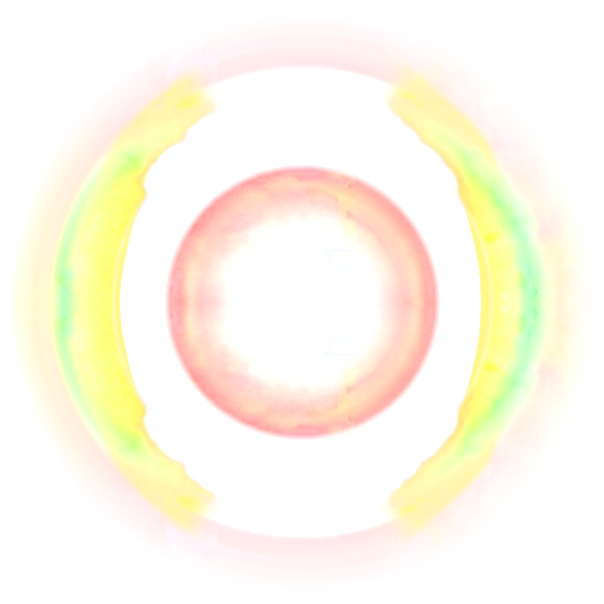
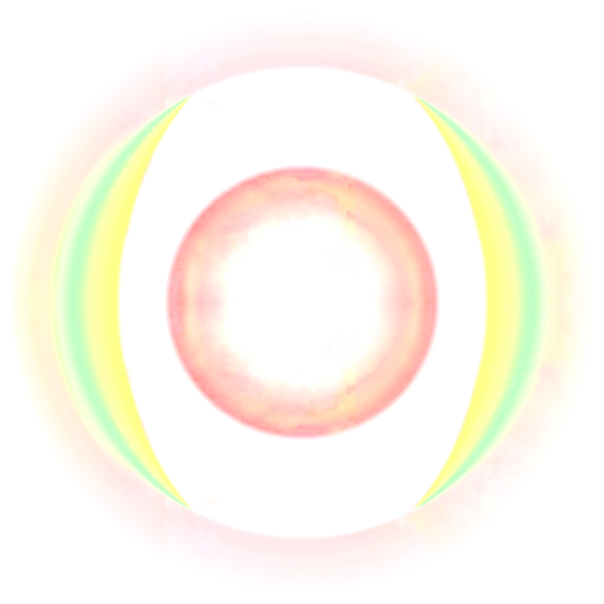
Efekt 10 küre (referans): parantezler sivri uçlu geoit şekline tamamlandı, renk tek tip (sağ parantez profili)
Claude-Session: https://claude.ai/code/session_01E9c1WiJsMc9gXSJZ9D4z6g

Changed region(s): [[0.0894, 0.1192, 0.3576, 0.894], [0.6258, 0.1192, 0.8642, 0.894], [0.8642, 0.5066, 0.894, 0.5364]]

diff --git a/arayuz/araclar/efekt10/kure_ref.py b/arayuz/araclar/efekt10/kure_ref.py
@@ -63,27 +63,33 @@ tp=(T[...,1]<0.85*T[...,0])&(R>=178)&(R<235)
 tp=ndimage.binary_opening(tp,np.ones((3,3)))
 wt=np.clip(ndimage.gaussian_filter(tp.astype(np.float32),2.0)*1.5,0,1)
 T=T*(1-wt)[...,None]
-# parantezleri sari renkle tamamla: orijinal katmandaki sari-yesil parantezin ic kenari (aci basina) yumusatilir,
-# o kenardan disari kalan kayiplar sari ile doldurulur (sekil duzgun yay olur)
-NA=720; ab=((np.arctan2(yy-CY,xx-CX)+np.pi)/(2*np.pi)*NA).astype(int)%NA
-mx0=T0.max(2); Y=(T0[...,1]>=0.85*T0[...,0])&(T0[...,2]<0.8*T0[...,1])&(mx0>0.3)&(R>165)&(R<265)
-rin=np.full(NA,np.nan); ys_=np.full((NA,3),np.nan)
-Rf=R[Y]; af=ab[Y]
-for a_ in range(NA):
-    q=af==a_
-    if q.sum()>3:
-        rr=np.sort(Rf[q]); rin[a_]=rr[min(2,len(rr)-1)]
-ok=~np.isnan(rin)
-var=ndimage.uniform_filter1d(ok.astype(float),25,mode="wrap")>0.6          # parantezin oldugu acilar
-rr_=np.where(ok,rin,np.interp(np.arange(NA),np.where(ok)[0],rin[ok],period=NA))
-rr_=ndimage.median_filter(rr_,31,mode="wrap"); rr_=ndimage.gaussian_filter1d(rr_,6,mode="wrap")
-rmap=rr_[ab]; vmap=ndimage.gaussian_filter1d(var.astype(float),4,mode="wrap")[ab]
-sari=np.array([0xFE,0xF6,0x86],np.float32)/255                                # olculen sari (#FFF083 / #FEFF81 / #FFFF8E ortasi)
-bolge=(R>=rmap)&(R<rmap+50)
-dol=np.clip((R-rmap+1.5)/3,0,1)*np.clip((rmap+50-R)/8,0,1)*vmap*bolge
-eksik=np.clip(1-T.max(2)/0.85,0,1)
-yeni=np.maximum(T,sari[None,None,:]*(dol*eksik)[...,None]+T*(1-(dol*eksik)[...,None]))
-T=yeni
+# parantezler: geoit gibi tamamlanmak isteyen, uclari sivrilen sekil — ic kenar daire (r=IC), dis kenar yanlardan siskin/ustten basik elips;
+# kalinlik ust-altta sifira iner -> sivri uclar. Renk: fotografin dogru (sag) parantezinden kalinlik oranina (u) gore olculen profil, tek tip.
+IA,IB,EA,EB=182.0,260.0,252.0,232.0           # fotograftaki eski parantezin olculen kenarlari: orta 182-252, uc ~62 derece r~236
+th_=np.arctan2(yy-CY,xx-CX)
+DR=1/np.sqrt((np.cos(th_)/EA)**2+(np.sin(th_)/EB)**2)
+IR=1/np.sqrt((np.cos(th_)/IA)**2+(np.sin(th_)/IB)**2); IC=IR
+kal=np.maximum(DR-IR,0); u=(R-IR)/np.maximum(kal,1e-3)
+ic_=(u>=0)&(u<=1)&(kal>0.5)
+# renk profili: sag parantez (|aci|<18), orijinal katman T0
+sg=ic_&(np.abs(np.degrees(th_))<18)
+NB=40; ub=np.clip((u*NB).astype(int),0,NB-1)
+prof=np.zeros((NB,3),np.float32)
+for c in range(3):
+    sm=np.bincount(ub[sg],weights=T0[...,c][sg],minlength=NB); n=np.bincount(ub[sg],minlength=NB)
+    ok=n>3; prof[:,c]=np.interp(np.arange(NB),np.where(ok)[0],(sm/np.maximum(n,1))[ok])
+prof=ndimage.uniform_filter1d(prof,3,axis=0)
+renk=np.stack([np.interp(np.clip(u,0,1)*NB-0.5,np.arange(NB),prof[:,c]) for c in range(3)],-1)
+dok=np.clip(T0.mean(2)/np.maximum(ndimage.gaussian_filter(T0.mean(2),5),1e-3),0.9,1.1)[...,None]
+kenar=np.clip(np.minimum(u/0.06,(1-u)/0.12),0,1)*np.clip(kal/6,0,1)              # ic kenar net, dis kenar yumusak, uclar sivri
+kenar=ndimage.gaussian_filter(kenar*ic_,0.8)[...,None]
+# eski parantezin yeni seklin disinda kalan parcalari silinir (sari-yesil, doygun); dis krem hale korunur
+mxT=T.max(2); doyT=(mxT-T.min(2))/np.maximum(mxT,1e-3)
+eski=(~ic_)&(R>IR-60)&(R<IR+2)&(T[...,1]>=0.8*T[...,0])&(doyT>0.3)&(mxT>0.2)
+eski=ndimage.binary_dilation(eski,np.ones((3,3)))&~ndimage.binary_dilation(ic_&(kal>2),np.ones((3,3)))
+we=np.clip(ndimage.gaussian_filter(eski.astype(np.float32),2.5)*1.6,0,1)[...,None]
+T=T*(1-we)
+T=T*(1-kenar)+np.clip(renk*dok,0,1)*kenar
 # daire disi (isaretli bolge disi) yumusakca saydam
 T=T*np.clip((RMAX+30-R)/45,0,1)[...,None]
 os.makedirs(K,exist_ok=True)
